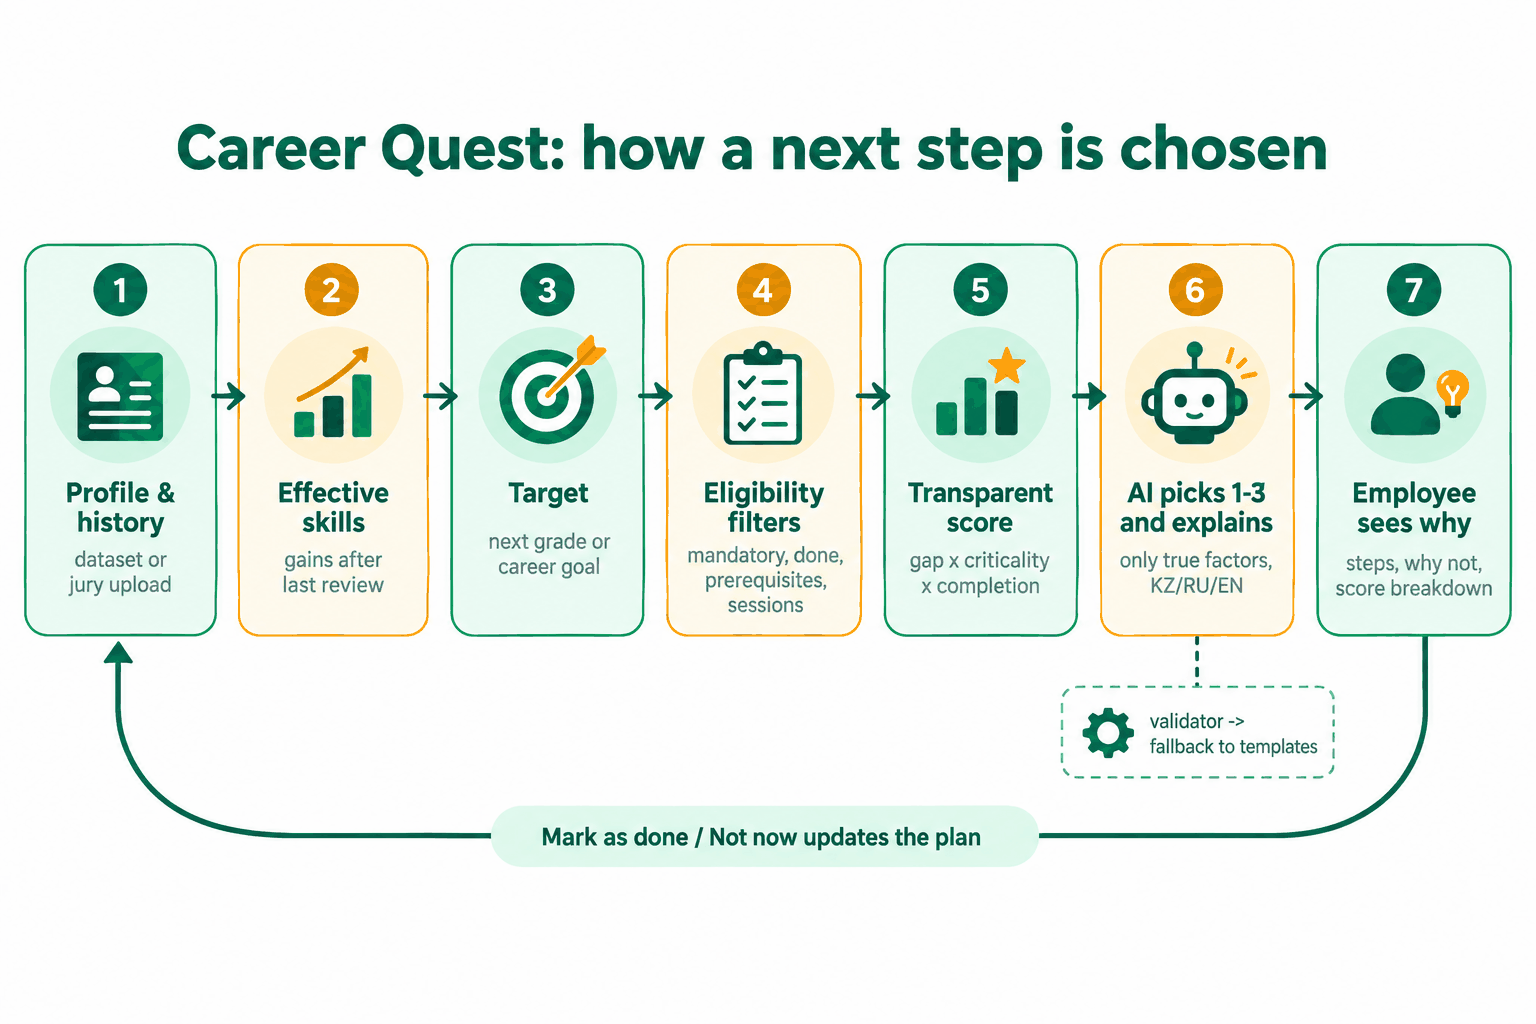
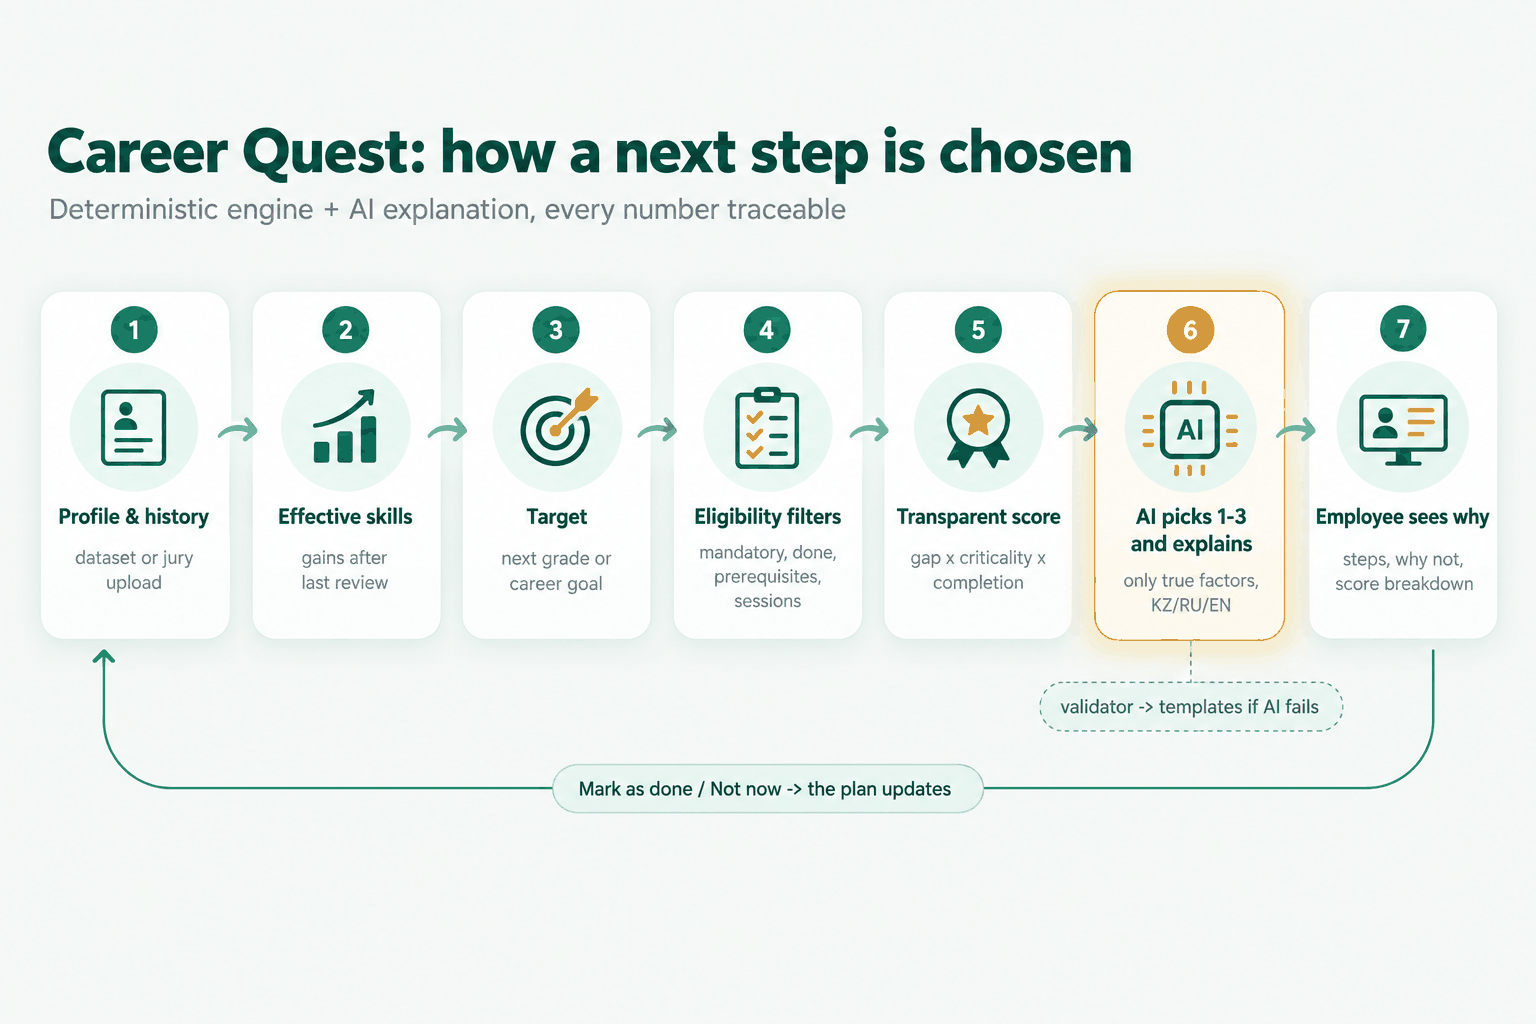
README: measured AI cost per employee and at 40 / 1,000 / 15,000 employees; nicer pipeline diagram
Claude-Session: https://claude.ai/code/session_019gRpKHPKs6THVUus7UGwjC

Changed region(s): [[0.0312, 0.125, 0.9688, 0.8438], [0.1562, 0.8125, 0.3125, 0.8438]]

diff --git a/README.md b/README.md
@@ -88,6 +88,20 @@ score = (очки_разрыва + 0.2 × прирост_сверх_требов
 - Интерфейс: один файл HTML/CSS/JS без сборки и внешних CDN (работает во внутреннем контуре)
 - pytest
 
+## Стоимость AI (оценка)
+
+Токены измерены на реальных вызовах: одна AI-рекомендация ≈ 2 050 входных и ≈ 300 выходных токенов (`gpt-6-sol` + параллельный запасной `gpt-6-luna`), один вопрос навигатору ≈ 2 050 / 170 токенов (2–3 вызова модели в цикле инструментов). Цены: `gpt-6-sol` $2 / $10, `gpt-6-luna` $0.10 / $0.50 за 1 млн токенов.
+
+| | На сотрудника в месяц | 40 сотрудников | 1 000 | 15 000 |
+|---|---|---|---|---|
+| Обычное использование: 8 новых AI-рекомендаций + 10 вопросов навигатору | ≈ $0.12 | ≈ $5 | ≈ $117 | ≈ $1 760 |
+| Активное использование (×3) | ≈ $0.35 | ≈ $14 | ≈ $350 | ≈ $5 270 |
+| Только `gpt-6-luna` (`OPENAI_MODEL=gpt-6-luna`) | ≈ $0.006 | < $1 | ≈ $6 | ≈ $87 |
+| Режим правил (без ключа) | $0 | $0 | $0 | $0 |
+
+- Повторные просмотры не стоят денег: AI-ответ кэшируется по состоянию профиля, новый вызов — только после «выполнено», «не сейчас» или новой активности.
+- Для закрытого контура: `OPENAI_BASE_URL` указывает на Qwen в vLLM внутри банка — фиксированная стоимость GPU вместо оплаты за токены, данные не покидают банк.
+
 ## Архитектура
 
 ```mermaid
